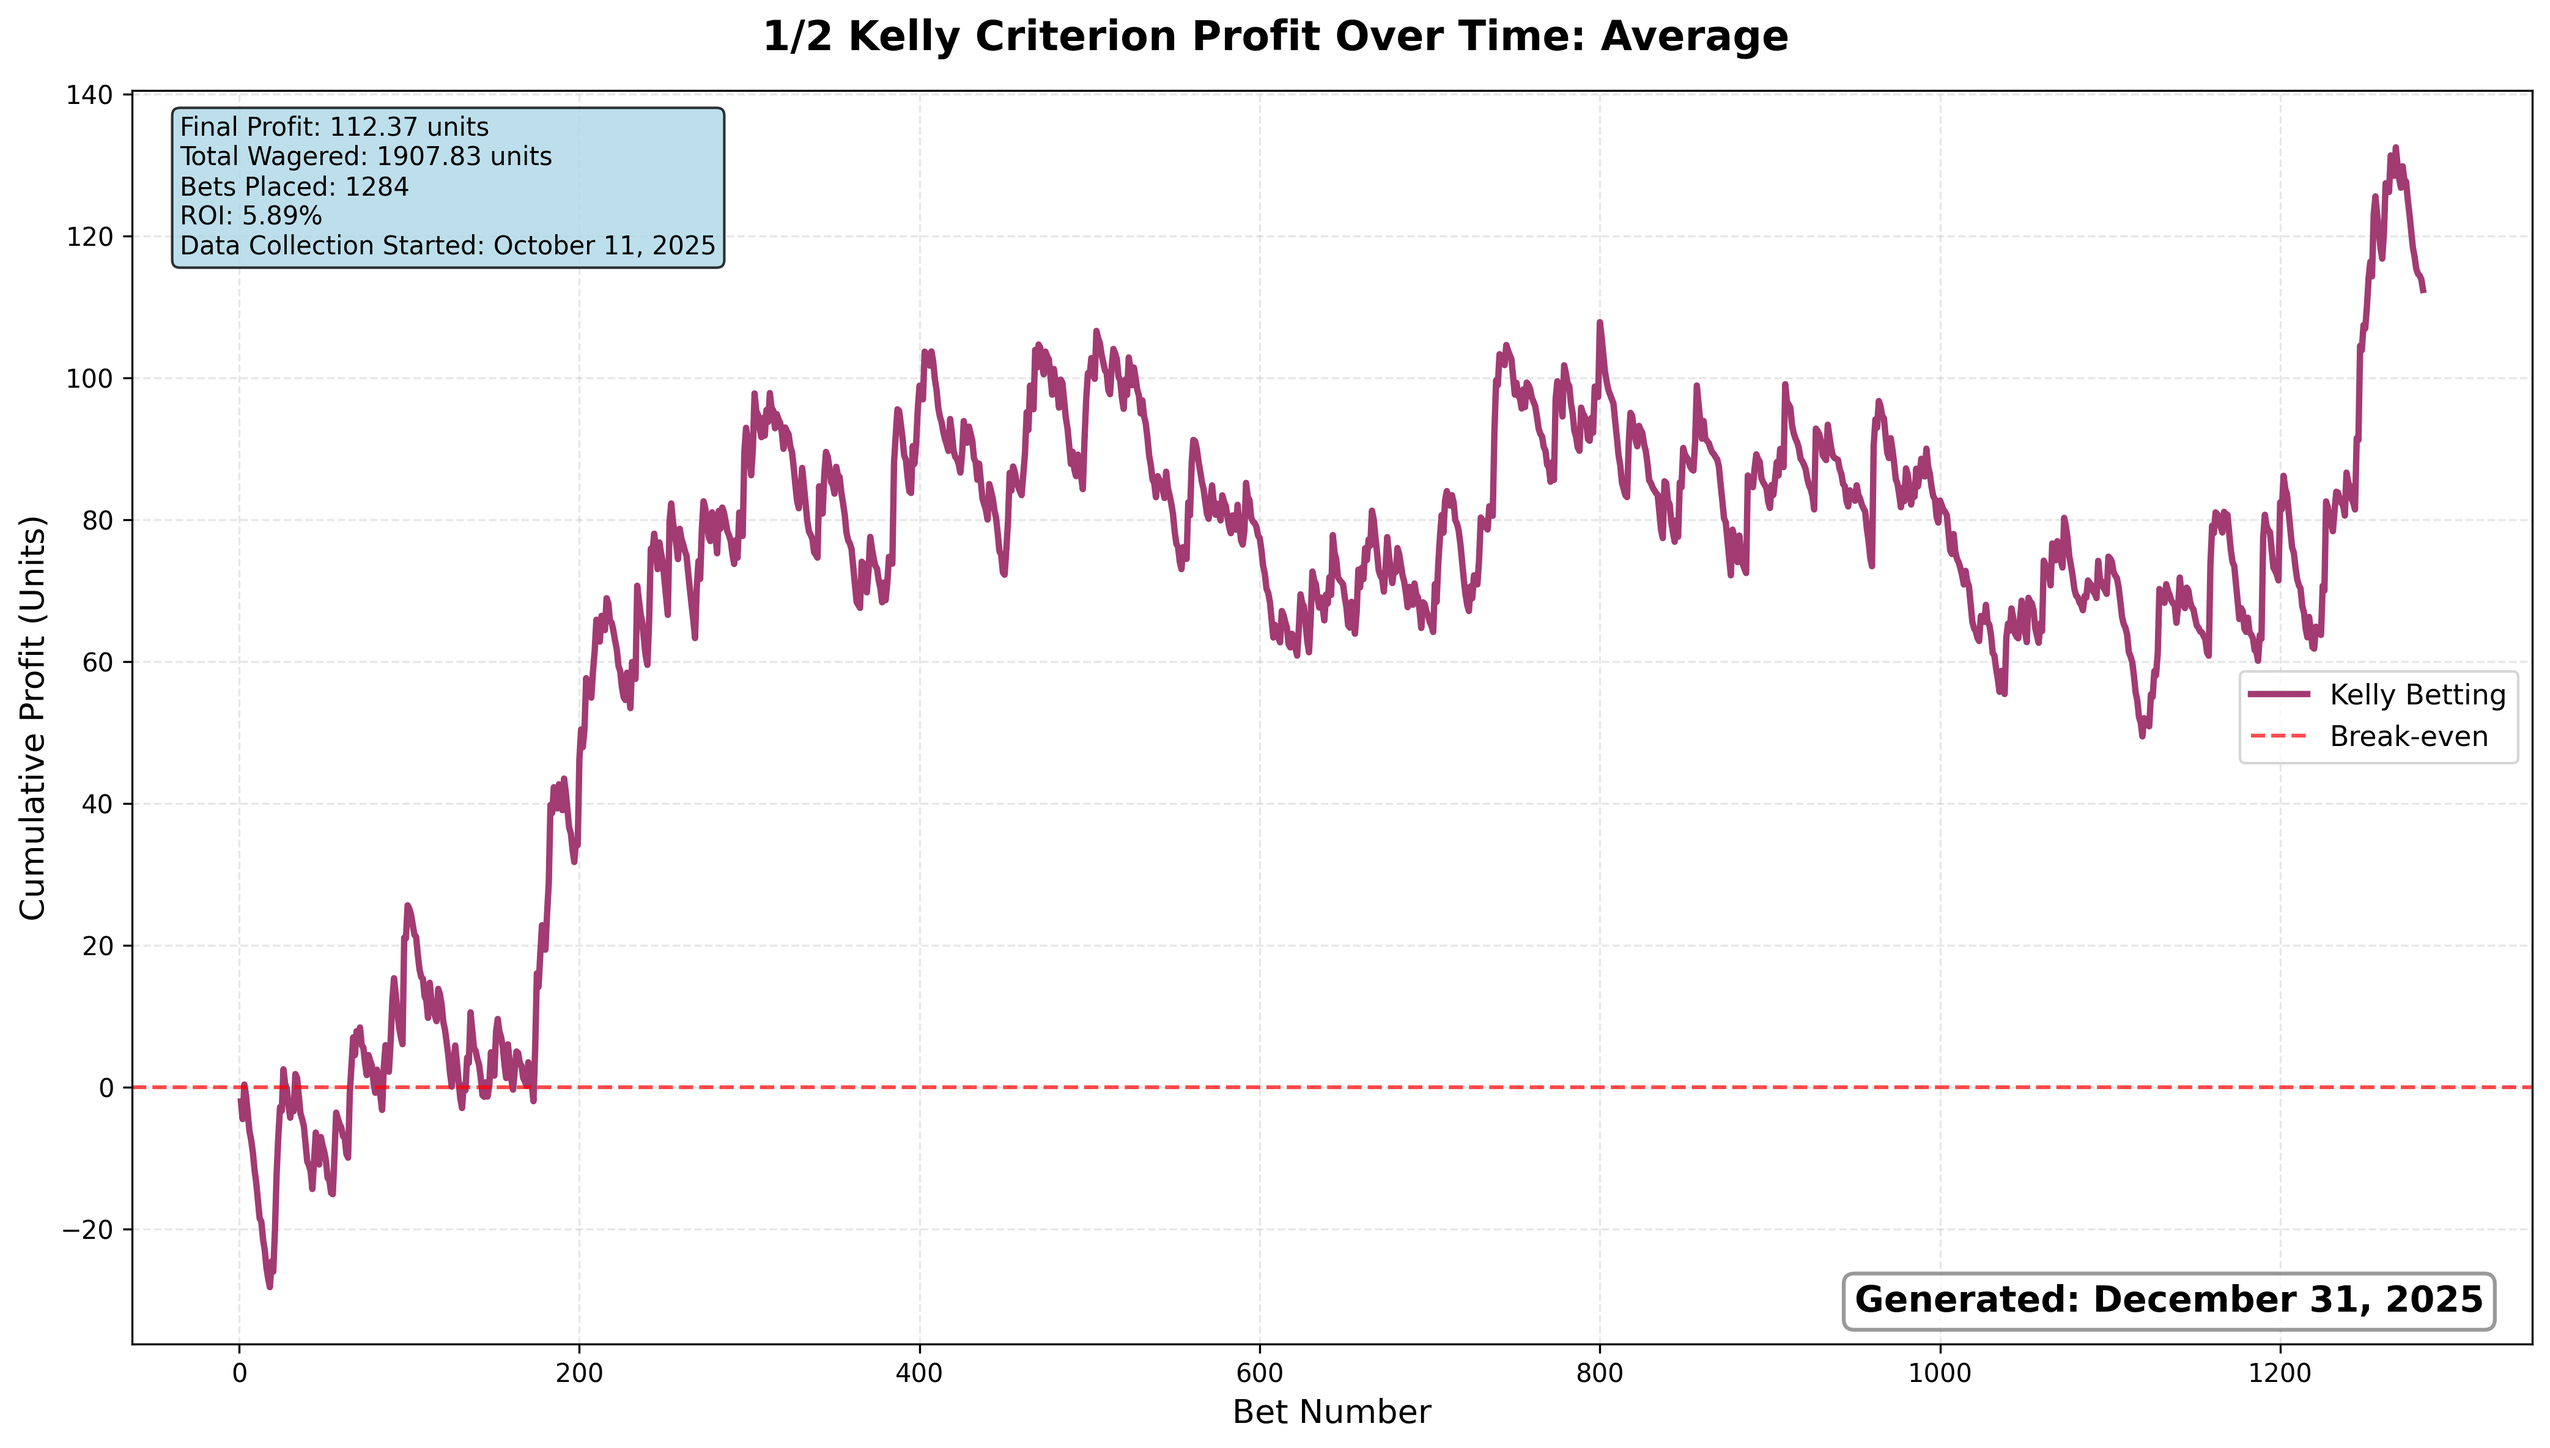
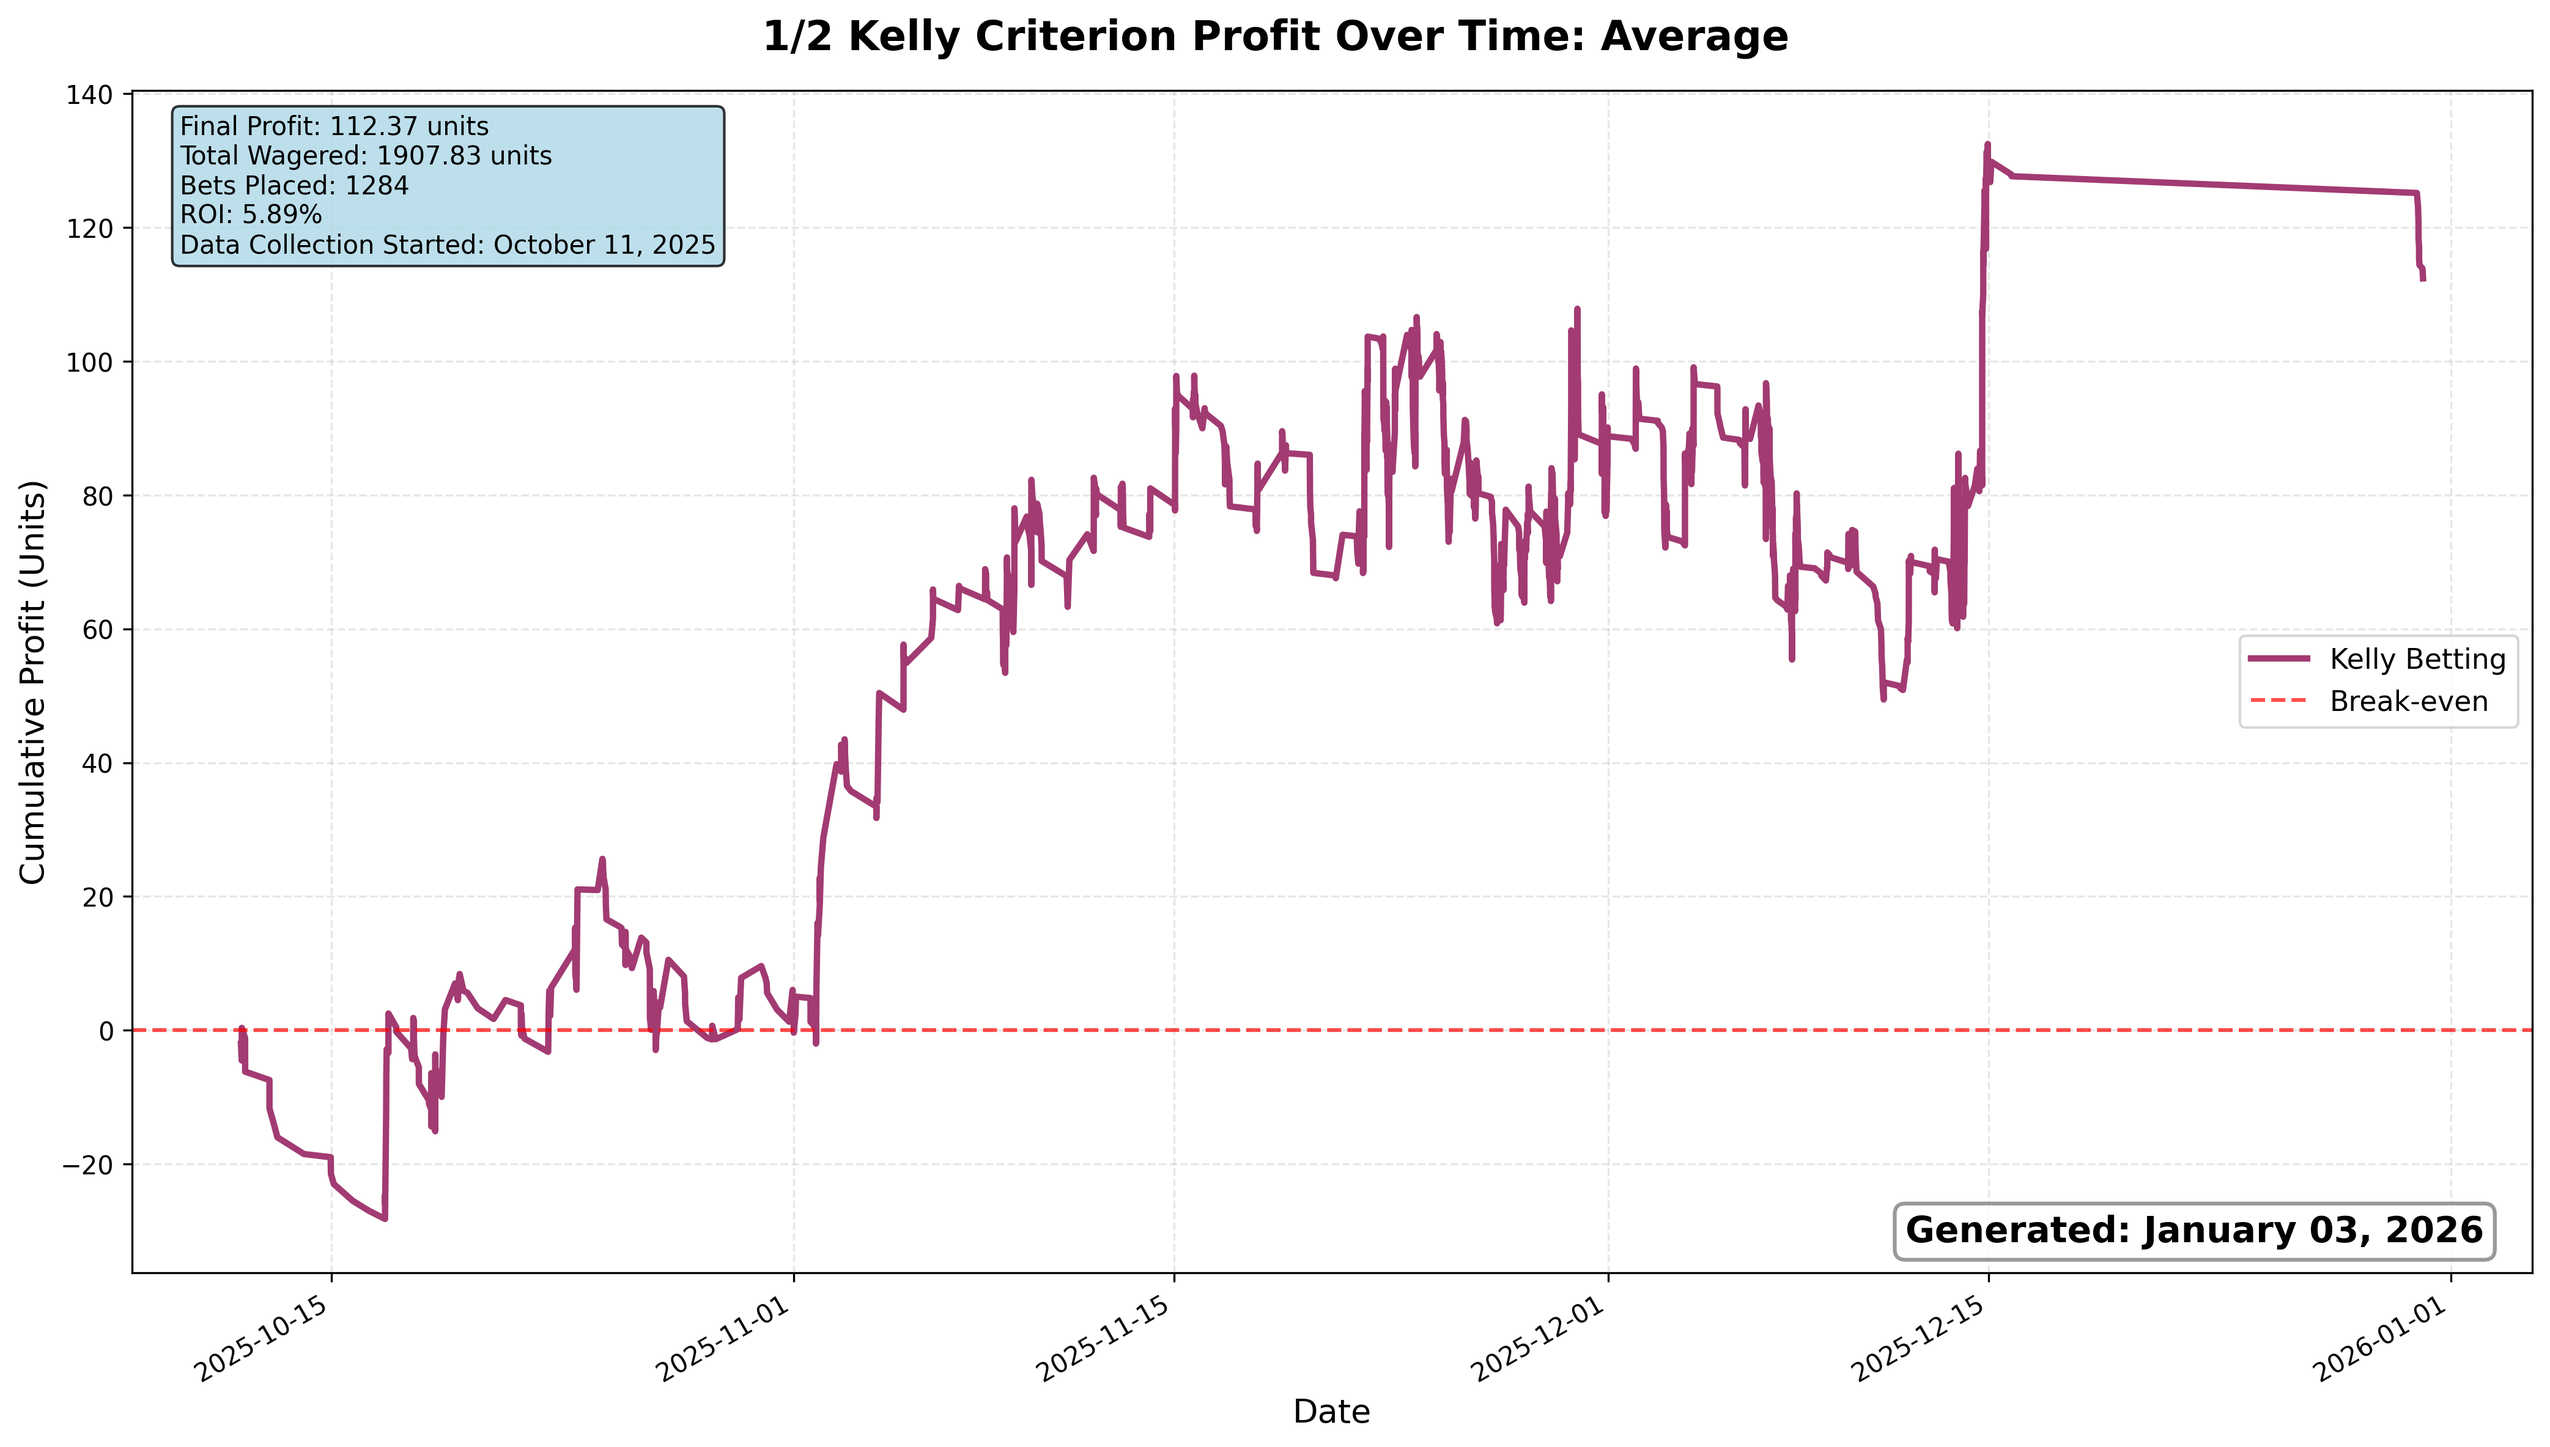
change charts to be actually over time

diff --git a/analysis/profit_over_time/profit_over_time.py b/analysis/profit_over_time/profit_over_time.py
@@ -1,9 +1,10 @@
 import pandas as pd
 import numpy as np
 import matplotlib.pyplot as plt
+import matplotlib.dates as mdates
 from dataclasses import dataclass
 from datetime import datetime
-from src.results.results_configs import PENDING_RESULTS
+from src.constants import PENDING_RESULTS
 
 
 # --- Data class for strategies ---
@@ -20,14 +21,14 @@ class BettingStrategy:
 STRATEGIES = [
     BettingStrategy(
         "Average",
-        "codebase/data/master_nc_avg_full.csv",
+        "data/master_nc_avg_full.csv",
         "Best Odds",
         "Fair Odds Avg",
         "Expected Value",
     ),
     BettingStrategy(
         "Average With Modified Zscore Constraint",
-        "codebase/data/master_nc_mod_zscore_full.csv",
+        "data/master_nc_mod_zscore_full.csv",
         "Best Odds",
         "Fair Odds Avg",
         "Expected Value",
@@ -35,21 +36,21 @@ STRATEGIES = [
     ),
     BettingStrategy(
         "Pinnacle",
-        "codebase/data/master_nc_pin_full.csv",
+        "data/master_nc_pin_full.csv",
         "Best Odds",
         "Pinnacle Fair Odds",
         "Expected Value",
     ),
     BettingStrategy(
         "Average With Zscore Constraint",
-        "codebase/data/master_nc_zscore_full.csv",
+        "data/master_nc_zscore_full.csv",
         "Best Odds",
         "Fair Odds Avg",
         "Expected Value",
         "Z Score",
     ),
     BettingStrategy(
-        "Random Strategy", "codebase/data/master_nc_random_full.csv", "Best Odds"
+        "Random Strategy", "data/master_nc_random_full.csv", "Best Odds"
     ),
 ]
 
@@ -219,13 +220,18 @@ def plot_profit_over_time(strategy, save_fig=False):
         
         flat_profit = calculate_cumulative_profit_flat(df, strategy.odds_column)
         
-        ax.plot(flat_profit['Bet_Number'], flat_profit['Cumulative_Profit'], 
+        ax.plot(flat_profit['Start Time'], flat_profit['Cumulative_Profit'], 
                 linewidth=2.5, color='#2E86AB', label='Flat Betting')
         ax.axhline(y=0, color='red', linestyle='--', linewidth=1.5, alpha=0.7, label='Break-even')
-        ax.set_xlabel('Bet Number', fontsize=13)
+        ax.set_xlabel('Date', fontsize=13)
         ax.set_ylabel('Cumulative Profit (Units)', fontsize=13)
         ax.grid(True, alpha=0.3, linestyle='--')
         ax.legend(fontsize=11)
+        
+        # Format x-axis for dates
+        ax.xaxis.set_major_formatter(mdates.DateFormatter('%Y-%m-%d'))
+        ax.xaxis.set_major_locator(mdates.AutoDateLocator())
+        fig.autofmt_xdate()
         
         # Add summary statistics
         final_profit_flat = flat_profit['Cumulative_Profit'].iloc[-1]
@@ -255,13 +261,18 @@ def plot_profit_over_time(strategy, save_fig=False):
         )
         
         if not kelly_profit.empty:
-            ax.plot(kelly_profit['Bet_Number'], kelly_profit['Cumulative_Profit'], 
+            ax.plot(kelly_profit['Start Time'], kelly_profit['Cumulative_Profit'], 
                     linewidth=2.5, color='#A23B72', label='Kelly Betting')
             ax.axhline(y=0, color='red', linestyle='--', linewidth=1.5, alpha=0.7, label='Break-even')
-            ax.set_xlabel('Bet Number', fontsize=13)
+            ax.set_xlabel('Date', fontsize=13)
             ax.set_ylabel('Cumulative Profit (Units)', fontsize=13)
             ax.grid(True, alpha=0.3, linestyle='--')
             ax.legend(fontsize=11)
+            
+            # Format x-axis for dates
+            ax.xaxis.set_major_formatter(mdates.DateFormatter('%Y-%m-%d'))
+            ax.xaxis.set_major_locator(mdates.AutoDateLocator())
+            fig.autofmt_xdate()
             
             # Add summary statistics
             final_profit_kelly = kelly_profit['Cumulative_Profit'].iloc[-1]
@@ -285,7 +296,7 @@ def plot_profit_over_time(strategy, save_fig=False):
                     verticalalignment='center',
                     transform=ax.transAxes,
                     fontsize=14)
-            ax.set_xlabel('Bet Number', fontsize=13)
+            ax.set_xlabel('Date', fontsize=13)
             ax.set_ylabel('Cumulative Profit (Units)', fontsize=13)
     
     # Add date stamp in bottom right corner (LARGER)
@@ -301,7 +312,7 @@ def plot_profit_over_time(strategy, save_fig=False):
     plt.tight_layout()
     
     if save_fig:
-        filename = f"codebase/analysis/profit_over_time/profit_over_time_{strategy.name.replace(' ', '_').lower()}.png"
+        filename = f"analysis/profit_over_time/profit_over_time_{strategy.name.replace(' ', '_').lower()}.png"
         plt.savefig(filename, dpi=300, bbox_inches='tight')
         print(f"Saved figure: {filename}")
     
@@ -351,20 +362,25 @@ def plot_comparison_all_strategies(save_fig=False):
             )
             
             if not kelly_profit.empty:
-                ax.plot(kelly_profit['Bet_Number'], kelly_profit['Cumulative_Profit'], 
+                ax.plot(kelly_profit['Start Time'], kelly_profit['Cumulative_Profit'], 
                         linewidth=2.5, color=colors[i % len(colors)], label=strategy.name, alpha=0.85)
         else:
             # Plot flat betting for Random strategy
             flat_profit = calculate_cumulative_profit_flat(df, strategy.odds_column)
             
             if not flat_profit.empty:
-                ax.plot(flat_profit['Bet_Number'], flat_profit['Cumulative_Profit'], 
+                ax.plot(flat_profit['Start Time'], flat_profit['Cumulative_Profit'], 
                         linewidth=2.5, color=colors[i % len(colors)], label=strategy.name, alpha=0.85, linestyle='--')
     
     ax.axhline(y=0, color='red', linestyle='--', linewidth=1.5, alpha=0.7, label='Break-even')
-    ax.set_xlabel('Bet Number', fontsize=13)
+    ax.set_xlabel('Date', fontsize=13)
     ax.set_ylabel('Cumulative Profit (Units)', fontsize=13)
     ax.grid(True, alpha=0.3, linestyle='--')
+    
+    # Format x-axis for dates
+    ax.xaxis.set_major_formatter(mdates.DateFormatter('%Y-%m-%d'))
+    ax.xaxis.set_major_locator(mdates.AutoDateLocator())
+    fig.autofmt_xdate()
     
     # Move legend to upper left to avoid overlapping with date boxes
     ax.legend(fontsize=11, loc='upper left')
@@ -392,7 +408,7 @@ def plot_comparison_all_strategies(save_fig=False):
     plt.tight_layout()
     
     if save_fig:
-        filename = "codebase/analysis/profit_over_time/profit_over_time_all_strategies.png"
+        filename = "analysis/profit_over_time/profit_over_time_all_strategies.png"
         plt.savefig(filename, dpi=300, bbox_inches='tight')
         print(f"Saved figure: {filename}")
     
